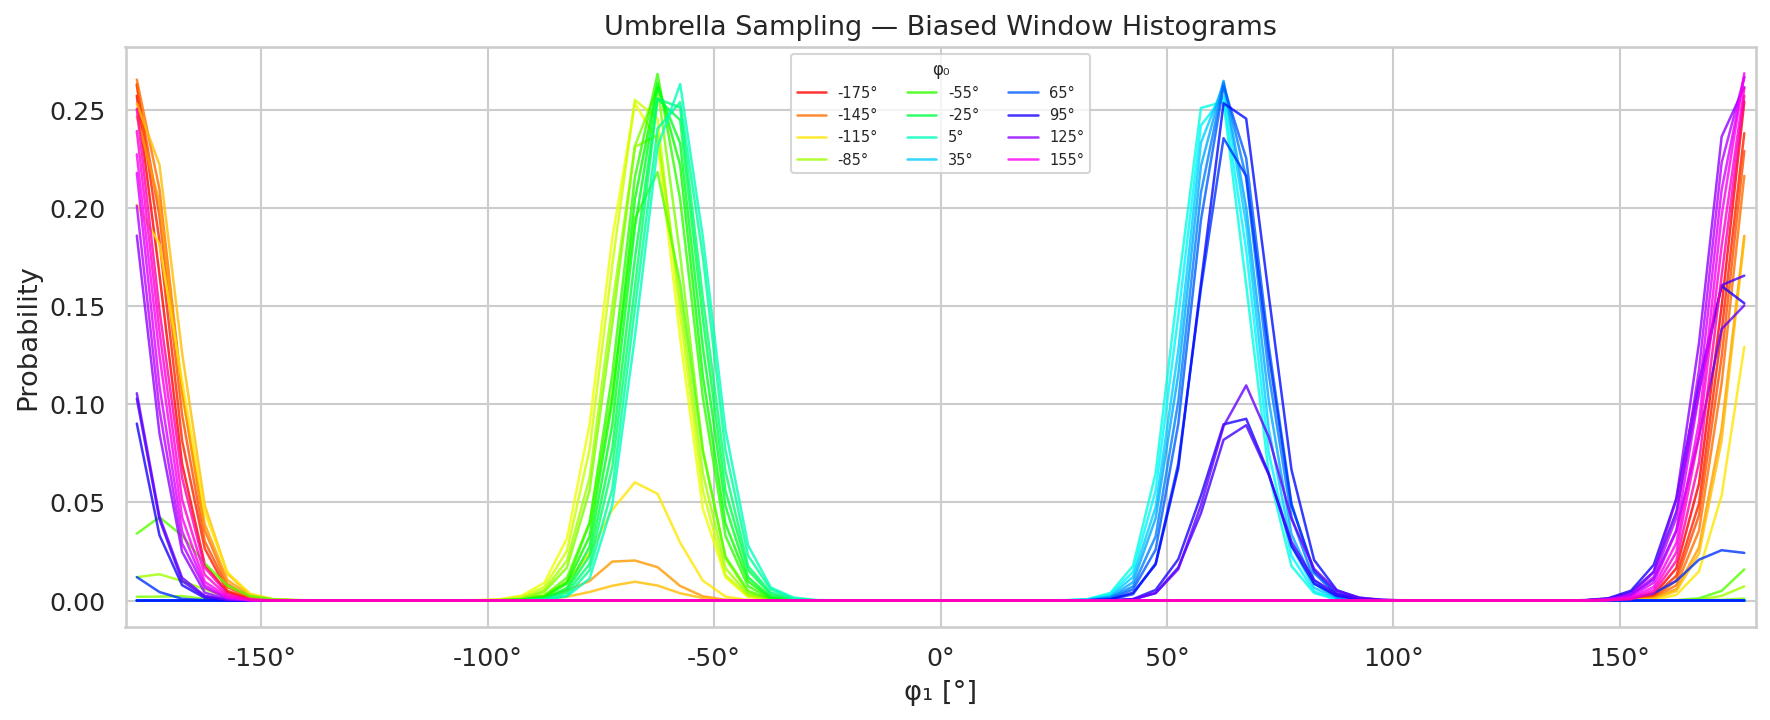
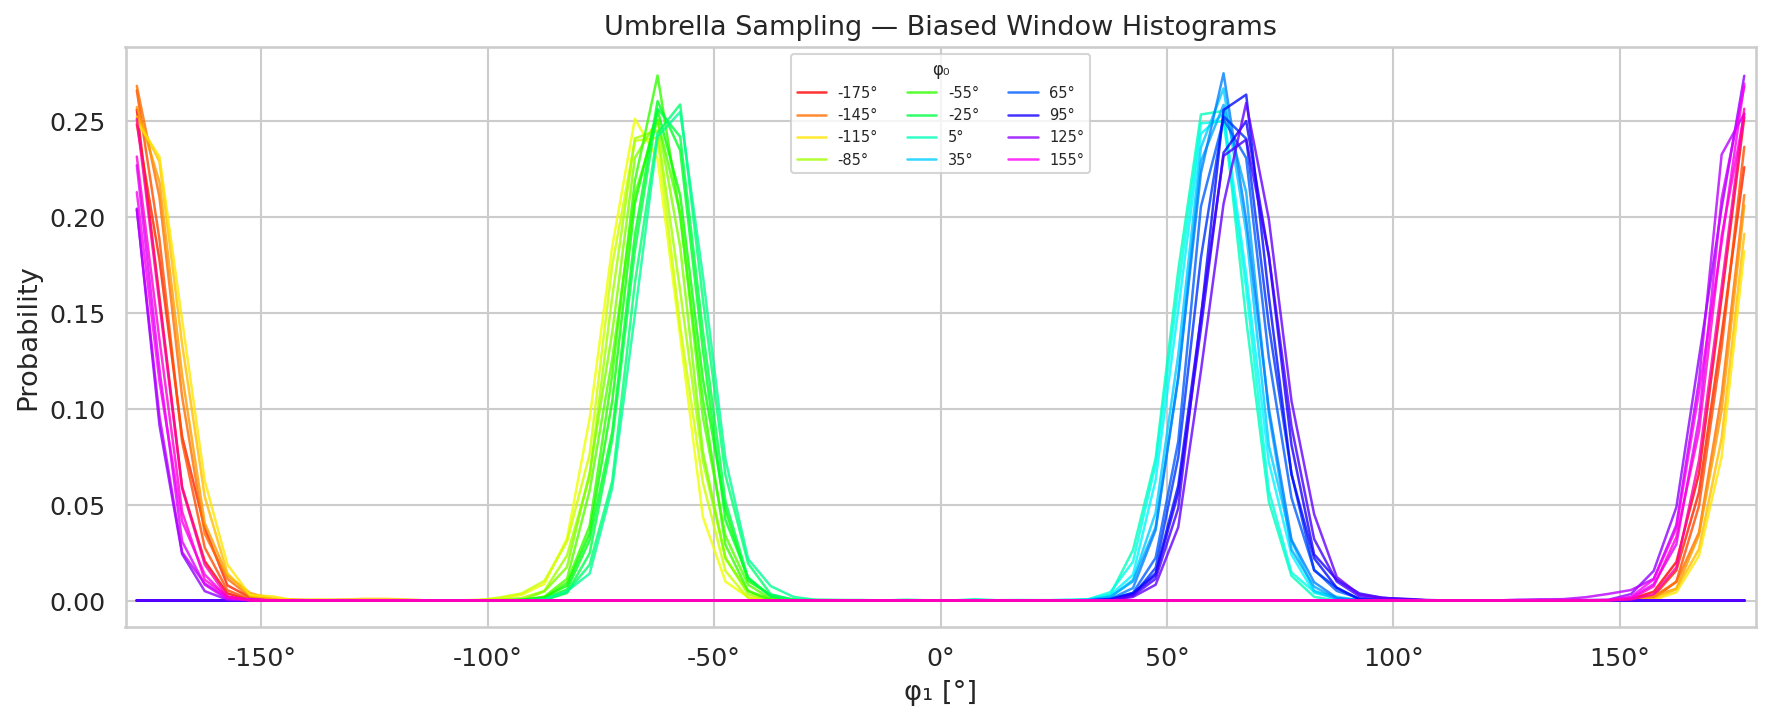
refactor: replace fragment rotation with single-atom Cartesian displacement in MC and umbrella sampling simulations

Changed region(s): [[0.0311, 0.1222, 0.9944, 0.8556]]

diff --git a/src/pentane/umbrella.py b/src/pentane/umbrella.py
@@ -1,23 +1,16 @@
 """
 umbrella.py — Cartesian umbrella-sampling Monte Carlo for n-pentane.
 
-The windowed move set is identical to the baseline Cartesian MC move; the only
-difference is the additional harmonic bias on the phi1 dihedral. The raw phi1
-samples are returned for WHAM post-processing.
+The move is single-atom Cartesian displacement, identical to the baseline
+MC in mc.py. The only difference is the additional harmonic bias on the
+phi1 dihedral. Raw phi1 samples are returned for WHAM post-processing.
 """
 import numpy as np
 from concurrent.futures import ProcessPoolExecutor
 
 from pentane.forcefield import total_energy
-from pentane.geometry import build_pentane, calc_dihedral, rotate_fragment
+from pentane.geometry import build_pentane, calc_dihedral
 from pentane.wham import run_wham
-
-# Probability of proposing a φ1 move (C2–C3 rotation) vs. a φ2 move
-# (C3–C4 rotation).  Biasing toward φ1 reduces the φ1 autocorrelation
-# time while retaining φ2 moves so the orthogonal DOF can relax.
-# Detailed balance is preserved: both branches use symmetric ±δ proposals.
-# (cf. Siepmann & Frenkel CBMC practice for n-alkane umbrella sampling.)
-PHI1_PROB: float = 0.80
 
 
 def _wrap(phi: float) -> float:
@@ -31,18 +24,13 @@ def _bias(phi: float, phi0: float, k: float) -> float:
     return 0.5 * k * dphi * dphi
 
 
-def _propose_rotation(pos: np.ndarray, rng: np.random.Generator, delta: float) -> np.ndarray:
-    """Propose a rigid Cartesian rotation.
-
-    With probability PHI1_PROB the C2–C3 bond is rotated (directly perturbing
-    φ1, the biased coordinate).  With probability 1–PHI1_PROB the C3–C4 bond
-    is rotated (perturbing φ2 while leaving φ1 largely unchanged).  Keeping
-    both move types allows the orthogonal degree of freedom to relax.
-    """
-    angle = rng.uniform(-delta, delta)
-    if rng.random() < PHI1_PROB:
-        return rotate_fragment(pos, pos[1], pos[2], [3, 4], angle)  # φ1 move
-    return rotate_fragment(pos, pos[2], pos[3], [4], angle)          # φ2 move
+def _propose_cartesian(pos: np.ndarray, rng: np.random.Generator,
+                        dr_max: float) -> np.ndarray:
+    """Displace one randomly chosen atom by a uniform vector in [-dr_max, dr_max]^3."""
+    trial = pos.copy()
+    atom = rng.integers(0, 5)
+    trial[atom] += rng.uniform(-dr_max, dr_max, size=3)
+    return trial
 
 
 def _window_centres(cfg: dict) -> np.ndarray:
@@ -52,37 +40,37 @@ def _window_centres(cfg: dict) -> np.ndarray:
 
 
 def run_window(phi0: float, T: float, cfg: dict, seed: int = None) -> np.ndarray:
-    """Run one umbrella window and return the biased phi1 trajectory."""
-    rng = np.random.default_rng(seed)
-    k = float(cfg["umbrella"]["window_k_K_per_rad2"])
-    n = int(cfg["umbrella"]["n_steps_per_window"])
-    # Use the umbrella-specific step size if present; fall back to simulation key.
-    # Umbrella windows benefit from larger moves (30°) since the bias confines
-    # exploration to each window — the baseline MC uses 5° for fair MD comparison.
-    _us_delta_deg = cfg["umbrella"].get("umbrella_mc_delta_phi_deg",
-                                        cfg["simulation"]["mc_delta_phi_deg"])
-    delta = np.radians(_us_delta_deg)
+    """Run one umbrella window with single-atom Cartesian displacement MC.
+
+    Returns the biased phi1 trajectory for WHAM post-processing.
+    """
+    rng  = np.random.default_rng(seed)
+    k    = float(cfg["umbrella"]["window_k_K_per_rad2"])
+    n    = int(cfg["umbrella"]["n_steps_per_window"])
+    # Umbrella windows use their own (larger) dr_max; fall back to simulation key.
+    dr   = float(cfg["umbrella"].get("dr_max_ang", cfg["simulation"]["dr_max_ang"]))
     beta = 1.0 / T
 
-    pos = build_pentane(phi0, np.pi, cfg)
-    e_phys = total_energy(pos)
-    e_bias = _bias(calc_dihedral(pos[0], pos[1], pos[2], pos[3]), phi0, k)
+    pos       = build_pentane(phi0, np.pi, cfg)
+    phi       = calc_dihedral(pos[0], pos[1], pos[2], pos[3])
+    e_phys    = total_energy(pos)
+    e_bias    = _bias(phi, phi0, k)
 
     traj = np.empty(n, dtype=float)
     for i in range(n):
-        trial = _propose_rotation(pos, rng, delta)
-        phi_trial = calc_dihedral(trial[0], trial[1], trial[2], trial[3])
+        trial      = _propose_cartesian(pos, rng, dr)
+        phi_trial  = calc_dihedral(trial[0], trial[1], trial[2], trial[3])
         e_phys_new = total_energy(trial)
         e_bias_new = _bias(phi_trial, phi0, k)
 
         dE = (e_phys_new + e_bias_new) - (e_phys + e_bias)
         if dE < 0.0 or rng.random() < np.exp(-beta * dE):
-            pos = trial
+            pos    = trial
+            phi    = phi_trial
             e_phys = e_phys_new
             e_bias = e_bias_new
-            phi_trial = phi_trial
 
-        traj[i] = calc_dihedral(pos[0], pos[1], pos[2], pos[3])
+        traj[i] = phi
 
     return traj
 

diff --git a/src/pentane/mc.py b/src/pentane/mc.py
@@ -1,61 +1,59 @@
 """
-mc.py — Cartesian Metropolis Monte Carlo for n-pentane.
+mc.py — Cartesian single-atom-displacement Metropolis MC for n-pentane.
 
-The move set keeps a full 3D coordinate array as state and rigidly rotates a
-fragment about a backbone bond axis. The reported observable is the C1-C2-C3-C4
-dihedral trajectory used by the analysis and umbrella-sampling workflow.
+Move: pick one atom at random, displace it by a uniform random vector in
+[-dr_max, dr_max]^3. Compute total energy before/after. Accept with the
+Metropolis criterion. Observable is the C1-C2-C3-C4 dihedral extracted
+from the Cartesian configuration at each step.
+
+The MD (md.py) already propagates full Cartesian coordinates via velocity
+Verlet + Nosé-Hoover — this MC implementation uses the same Cartesian
+representation so both methods are directly comparable.
 """
 import numpy as np
 
 from pentane.forcefield import total_energy
-from pentane.geometry import build_all_trans, calc_dihedral, rotate_fragment
-
-
-def _wrap(phi: float) -> float:
-    """Wrap a dihedral to (-π, π]."""
-    return (phi + np.pi) % (2 * np.pi) - np.pi
-
-
-def _propose_rotation(pos: np.ndarray, rng: np.random.Generator, delta: float) -> np.ndarray:
-    """Propose a rigid fragment rotation about one backbone bond."""
-    angle = rng.uniform(-delta, delta)
-    if rng.random() < 0.5:
-        return rotate_fragment(pos, pos[1], pos[2], [3, 4], angle)
-    return rotate_fragment(pos, pos[2], pos[3], [4], angle)
+from pentane.geometry import build_all_trans, calc_dihedral
 
 
 def run_mc(T: float, cfg: dict, seed: int = None) -> np.ndarray:
-    """Run Metropolis NVT MC and return the phi1 trajectory.
+    """Run Cartesian single-atom-displacement NVT MC; return φ₁ trajectory.
 
-    Speedup: all random numbers are pre-generated outside the loop,
-    eliminating per-step RNG call overhead (~2× faster than inline calls).
+    Parameters
+    ----------
+    T   : Temperature [K]
+    cfg : Configuration dict (from config_loader.CFG)
+    seed: RNG seed for reproducibility
+
+    Returns
+    -------
+    traj : np.ndarray, shape (n_steps,) [rad]
+        C1-C2-C3-C4 dihedral angle at every step.
     """
-    rng = np.random.default_rng(seed)
-    n = int(cfg["simulation"]["n_steps"])
-    delta = np.radians(cfg["simulation"]["mc_delta_phi_deg"])
-    beta = 1.0 / T
+    rng   = np.random.default_rng(seed)
+    n     = int(cfg["simulation"]["n_steps"])
+    dr    = float(cfg["simulation"]["dr_max_ang"])
+    beta  = 1.0 / T
 
-    # Pre-generate all randoms — eliminates per-step RNG overhead
-    bond_choices = rng.random(n)                  # which bond to rotate
-    move_angles  = rng.uniform(-delta, delta, n)  # trial rotation angles
-    accept_draws = rng.random(n)                  # Metropolis acceptance
+    # Pre-generate all random numbers outside the loop (~2× speedup)
+    atoms    = rng.integers(0, 5, size=n)               # which atom to move
+    deltas   = rng.uniform(-dr, dr, size=(n, 3))        # displacement vector
+    uniforms = rng.random(n)                            # Metropolis draw
 
-    pos = build_all_trans(cfg)
+    pos   = build_all_trans(cfg)
     E_old = total_energy(pos)
 
     traj = np.empty(n, dtype=float)
+
     for i in range(n):
-        angle = move_angles[i]
-        if bond_choices[i] < 0.5:
-            trial = rotate_fragment(pos, pos[1], pos[2], [3, 4], angle)
-        else:
-            trial = rotate_fragment(pos, pos[2], pos[3], [4], angle)
+        trial          = pos.copy()
+        trial[atoms[i]] += deltas[i]
 
         E_new = total_energy(trial)
-        dE = E_new - E_old
+        dE    = E_new - E_old
 
-        if dE < 0.0 or accept_draws[i] < np.exp(-beta * dE):
-            pos = trial
+        if dE < 0.0 or uniforms[i] < np.exp(-beta * dE):
+            pos   = trial
             E_old = E_new
 
         traj[i] = calc_dihedral(pos[0], pos[1], pos[2], pos[3])
